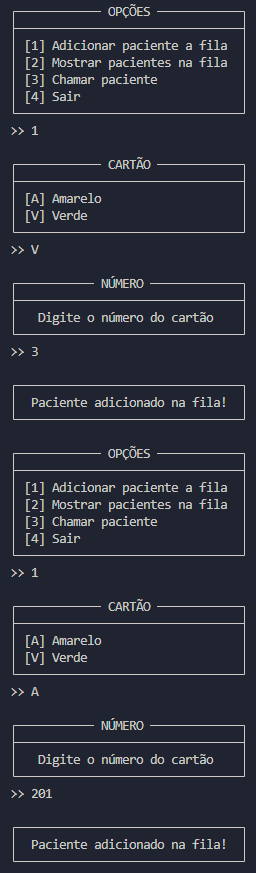
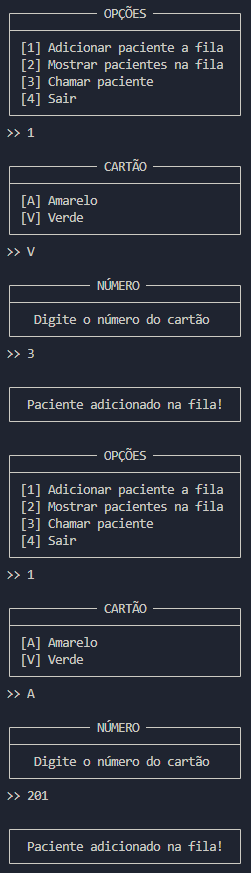
1.0

diff --git a/Back-end/App - Sistema de triagem/readme.md b/Back-end/App - Sistema de triagem/readme.md
@@ -67,16 +67,18 @@ Para testar o software, execute os seguintes passos e apresente a saída do cons
 
 **Resultado:**
 
-*Adicionar pacientes na fila*
+*Adicionar pacientes na fila*    
+
 <div>
-<img src="image.png" width="200px">
-<img src="image-1.png" width="207px">
-<img src="image-2.png" width="200px">
-<img src="image-3.png" width="200px">
-<img src="image-4.png" width="200px">
+<img src="image.png" width="170px">
+<img src="image-1.png" width="172x">
+<img src="image-2.png" width="170x">
+<img src="image-3.png" width="170px">
+<img src="image-4.png" width="170px">
 </div>
 
-*Mostrar pacientes*
+*Mostrar pacientes*  
+
 ![alt text](image-5.png)
 
 *Chamar pacientes*
